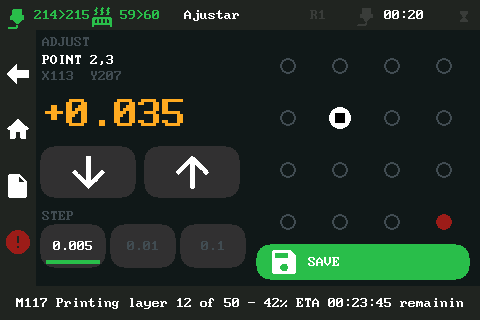
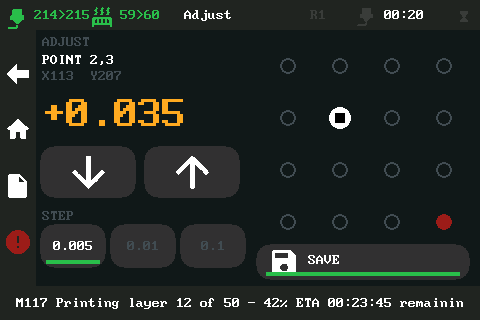
gui: grey buttons with a coloured underline; Apply/Start in English
- every button has the grey background with the colour only as a line under
  the label: red for cancel/abort/destructive, green for start/save/apply,
  grey for neutral (estop NO)
- more room between the label and the line
- Z Calibrate screen: 'Aceitar' -> Apply, 'Calibrar' -> Start

Changed region(s): [[0.5312, 0.75, 1.0, 0.875], [0.4062, 0.0312, 0.5, 0.0625]]

diff --git a/mcu/st7796.py b/mcu/st7796.py
@@ -96,12 +96,12 @@ GUI_SCREENS = {
         ("Back", "back", ('scr', 'extrude')),
     ],
     'probe': [
-        ("Calibrar", "probe", 'PROBE_CALIBRATE'),
+        ("Start", "probe", 'PROBE_CALIBRATE'),
         ("Z -1", "down", 'TESTZ Z=-1'),
         ("Z -0.1", "down", 'TESTZ Z=-0.1'),
         ("Z +0.1", "up", 'TESTZ Z=+0.1'),
         ("Z +1", "up", 'TESTZ Z=+1'),
-        ("Aceitar", "check", 'ACCEPT'),
+        ("Apply", "check", 'ACCEPT'),
         ("Save", "save", 'SAVE_CONFIG'),
         ("Back", "back", ('scr', 'main')),
     ],
@@ -1722,24 +1722,23 @@ class ST7796:
         for (x, y, w, h, kind) in self._mesh_btns():
             if kind == 'start':
                 icon = 'play48'
-                if running:
-                    lab, fg, bg = "START", COL_DIM, self.gui_btn_bg
-                else:
-                    lab, fg, bg = "START", COL_WHITE, COL_OK
+                lab, fg, bg = "START", (COL_DIM if running else COL_WHITE), \
+                    self.gui_btn_bg
             else:
                 icon = 'x48'
-                if running:
-                    lab = "CONFIRM" if armed else "ABORT"
-                    fg, bg = COL_WHITE, COL_ERR
-                else:
-                    lab, fg, bg = "CANCELAR", COL_WHITE, self.gui_btn_bg
+                lab = self._t("CONFIRM" if armed else "ABORT") \
+                    if running else "CANCEL"
+                fg, bg = COL_WHITE, self.gui_btn_bg
             ops.append(lambda x=x, y=y, w=w, h=h, bg=bg: self._gui_round(
                 x, y, w, h, bg))
             ops.append(lambda x=x, y=y, w=w, icon=icon, fg=fg, bg=bg:
                        self._gui_icon_at(icon, x + (w - 44) // 2, y + 8,
                                          fg, bg, 44))
             ops.append(lambda x=x, y=y, w=w, h=h, lab=lab, fg=fg, bg=bg:
-                       self._gui_text_center(x, w, y + h - 26, lab, fg, bg, 1))
+                       self._gui_text_center(x, w, y + h - 36, lab, fg, bg, 1))
+            acc = COL_OK if kind == 'start' else COL_ERR
+            ops.append(lambda x=x, y=y, w=w, h=h, acc=acc: self.cmd_rect.send(
+                [x + 10, y + h - 12, w - 20, 5, acc]))
         self._mesh_lbr = (running, armed)
 
     def _mesh_view_ops(self, ops, eventtime):
@@ -2005,7 +2004,7 @@ class ST7796:
     def _adj_save_ops(self, ops):
         x, y, w, h = 256, 244, 214, 36
         dirty = self._adj_dirty()
-        bg = COL_OK if dirty else self.gui_btn_bg
+        bg = self.gui_btn_bg
         fg = COL_WHITE if dirty else COL_DIM
         iw = (self._icon_at('save', 24) or (0, 0))[0]
         ops.append(lambda x=x, y=y, w=w, h=h, bg=bg: self._gui_round(
@@ -2013,7 +2012,10 @@ class ST7796:
         ops.append(lambda x=x, y=y, iw=iw, fg=fg, bg=bg: self._gui_icon_at(
             'save', x + 16, y + 6, fg, bg, 24))
         ops.append(lambda x=x, y=y, fg=fg, bg=bg: self._gui_text(
-            x + 52, y + 10, "SAVE", fg, bg, 1))
+            x + 52, y + 8, "SAVE", fg, bg, 1))
+        if dirty:
+            ops.append(lambda x=x, y=y, w=w, h=h: self.cmd_rect.send(
+                [x + 10, y + h - 8, w - 20, 4, COL_OK]))
         self._adj_lsave = dirty
 
     def _adj_view_ops(self, ops, eventtime):
@@ -2284,7 +2286,7 @@ class ST7796:
     def _cards_save_ops(self, ops, keys):
         x, y, w, h = self._cards_save_rect()
         ready = any(k in _SAVE_MAP for k in keys)
-        bg = COL_OK if ready else self.gui_btn_bg
+        bg = self.gui_btn_bg
         fg = COL_WHITE if ready else COL_DIM
         iw = (self._icon_at('save', 20) or (0, 0))[0]
         ops.append(lambda x=x, y=y, w=w, h=h, bg=bg: self._gui_round(
@@ -2531,7 +2533,7 @@ class ST7796:
             else:
                 # OK -> check mark (with a green line), Save -> floppy disk
                 if what == 'save':
-                    icon, bg, acc = 'save', COL_OK, None
+                    icon, bg, acc = 'save', self.gui_btn_bg, COL_OK
                 else:
                     icon, bg, acc = 'check', self.gui_btn_bg, COL_OK
                 isz = 30
@@ -3087,8 +3089,8 @@ class ST7796:
                               'play48' if paused else 'pause48',
                               "Resume" if paused else "Pause", accent=acc)
             else:
-                self._btn_ops(ops, x, y, w, h, 'x48', "Cancel", COL_ERR,
-                              accent=acc)
+                self._btn_ops(ops, x, y, w, h, 'x48', "Cancel", COL_WHITE,
+                              accent=COL_ERR)
     def _gui_render(self, eventtime):
         if self._gui_ops:
             return
@@ -3547,10 +3549,14 @@ class ST7796:
             0, self.width, self.TOP_H + 26, "CONFIRM?", COL_WARN, COL_BG, 3))
         for (x, y, w, h, kind) in self._estop_btns():
             if kind == 'yes':
-                self._big_btn(ops, x, y, w, h, "SIM", COL_ERR, COL_WHITE)
-            else:
-                self._big_btn(ops, x, y, w, h, "NAO", self.gui_btn_bg,
+                self._big_btn(ops, x, y, w, h, "YES", self.gui_btn_bg,
                               COL_WHITE)
+            else:
+                self._big_btn(ops, x, y, w, h, "NO", self.gui_btn_bg,
+                              COL_WHITE)
+            acc = COL_ERR if kind == 'yes' else COL_DIM
+            ops.append(lambda x=x, y=y, w=w, h=h, acc=acc: self.cmd_rect.send(
+                [x + 14, y + h - 14, w - 28, 6, acc]))
     def _host_power(self, what):
         # Runs in a worker thread: ask Moonraker (it holds the privileges).
         try:
